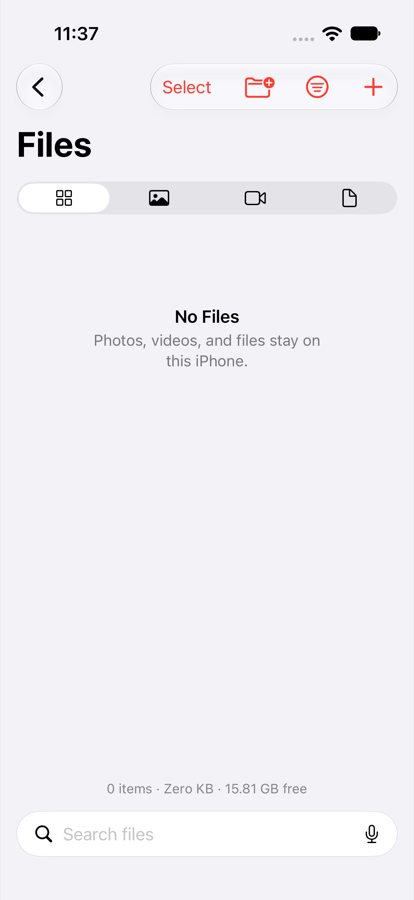
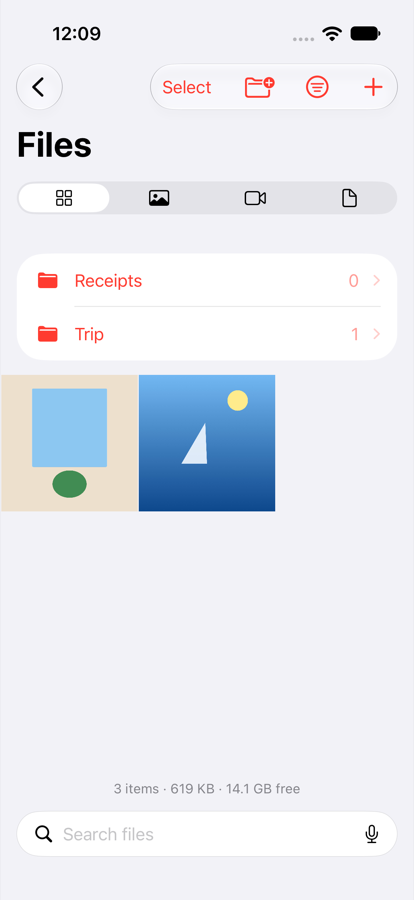
Show sample folders and photos, and explain Move, Copy, and the photo menu.

diff --git a/NoteLy/ViewModels/VaultFilesViewModel.swift b/NoteLy/ViewModels/VaultFilesViewModel.swift
@@ -960,3 +960,109 @@ struct VaultTempFile: Transferable {
         return destination
     }
 }
+
+#if DEBUG
+extension VaultFilesViewModel {
+    /// Sample folders and photos for the screenshot guide. Debug launches only.
+    func seedGuideSamples() {
+        guard let master = session.key else { return }
+        let trip = VaultFolder(name: "Trip")
+        let receipts = VaultFolder(name: "Receipts")
+        folders = [trip, receipts]
+        library = .empty
+        library.folders = folders
+        items = []
+        let specs: [(GuidePicture, String, UUID?)] = [
+            (.harbor, "Harbor.jpg", nil),
+            (.window, "Window.jpg", nil),
+            (.sunset, "Sunset.jpg", trip.id)
+        ]
+        for spec in specs {
+            guard let url = spec.0.write(named: spec.1) else { continue }
+            defer { try? FileManager.default.removeItem(at: url) }
+            guard var item = try? store.importFile(
+                at: url,
+                name: spec.1,
+                folderID: spec.2,
+                companionID: nil,
+                using: master,
+                shouldContinue: { true }
+            ) else { continue }
+            let meta = ThumbnailMaker.dimensions(url: url, type: item.type)
+            item.pixelWidth = meta.width == 0 ? nil : meta.width
+            item.pixelHeight = meta.height == 0 ? nil : meta.height
+            if let jpeg = UIImage(contentsOfFile: url.path)?.jpegData(compressionQuality: 0.8) {
+                try? store.saveThumbnail(jpeg, id: item.id, using: master)
+                item.hasThumbnail = true
+            }
+            items.append(item)
+        }
+        library.items = items
+        persist()
+        refreshSummary()
+    }
+}
+
+private enum GuidePicture {
+    case harbor
+    case sunset
+    case window
+
+    func write(named name: String) -> URL? {
+        let renderer = UIGraphicsImageRenderer(size: CGSize(width: 800, height: 800))
+        let image = renderer.image { context in
+            let bounds = CGRect(x: 0, y: 0, width: 800, height: 800)
+            switch self {
+            case .harbor:
+                drawGradient(in: bounds, colors: [
+                    UIColor(red: 0.45, green: 0.72, blue: 0.95, alpha: 1),
+                    UIColor(red: 0.05, green: 0.28, blue: 0.55, alpha: 1)
+                ], context: context.cgContext)
+                UIColor(red: 1, green: 0.92, blue: 0.55, alpha: 1).setFill()
+                UIBezierPath(ovalIn: CGRect(x: 520, y: 90, width: 120, height: 120)).fill()
+                UIColor(red: 0.95, green: 0.97, blue: 1, alpha: 0.9).setFill()
+                let sail = UIBezierPath()
+                sail.move(to: CGPoint(x: 250, y: 520))
+                sail.addLine(to: CGPoint(x: 390, y: 280))
+                sail.addLine(to: CGPoint(x: 400, y: 520))
+                sail.close()
+                sail.fill()
+            case .sunset:
+                drawGradient(in: bounds, colors: [
+                    UIColor(red: 0.98, green: 0.55, blue: 0.25, alpha: 1),
+                    UIColor(red: 0.45, green: 0.12, blue: 0.38, alpha: 1)
+                ], context: context.cgContext)
+                UIColor(red: 1, green: 0.78, blue: 0.28, alpha: 1).setFill()
+                UIBezierPath(ovalIn: CGRect(x: 280, y: 430, width: 240, height: 240)).fill()
+            case .window:
+                UIColor(red: 0.93, green: 0.88, blue: 0.8, alpha: 1).setFill()
+                UIBezierPath(rect: bounds).fill()
+                UIColor(red: 0.55, green: 0.78, blue: 0.95, alpha: 1).setFill()
+                UIBezierPath(roundedRect: CGRect(x: 180, y: 80, width: 440, height: 460), cornerRadius: 8).fill()
+                UIColor(red: 0.25, green: 0.55, blue: 0.32, alpha: 1).setFill()
+                UIBezierPath(ovalIn: CGRect(x: 300, y: 560, width: 200, height: 160)).fill()
+            }
+        }
+        guard let data = image.jpegData(compressionQuality: 0.9) else { return nil }
+        let url = FileManager.default.temporaryDirectory.appendingPathComponent(name)
+        do {
+            try data.write(to: url, options: .atomic)
+            return url
+        } catch {
+            return nil
+        }
+    }
+
+    private func drawGradient(in bounds: CGRect, colors: [UIColor], context: CGContext) {
+        let space = CGColorSpaceCreateDeviceRGB()
+        let cgColors = colors.map(\.cgColor) as CFArray
+        guard let gradient = CGGradient(colorsSpace: space, colors: cgColors, locations: [0, 1]) else { return }
+        context.drawLinearGradient(
+            gradient,
+            start: CGPoint(x: bounds.midX, y: bounds.minY),
+            end: CGPoint(x: bounds.midX, y: bounds.maxY),
+            options: []
+        )
+    }
+}
+#endif

diff --git a/NoteLyUITests/GuideScreenshotUITests.swift b/NoteLyUITests/GuideScreenshotUITests.swift
@@ -65,6 +65,48 @@ final class GuideScreenshotUITests: XCTestCase {
         }
     }
 
+    func testCaptureFilesGuide() {
+        let app = XCUIApplication()
+        app.launchArguments = [
+            "-ui-testing",
+            "-ui-testing-skip-onboarding",
+            "-ui-testing-open-vault"
+        ]
+        app.launchEnvironment = ["NOTELY_UITEST_PHRASE": "harbor-lantern"]
+        app.launch()
+
+        XCTAssertTrue(app.staticTexts["Hidden Folders"].waitForExistence(timeout: 12))
+        XCTAssertTrue(app.staticTexts["3"].waitForExistence(timeout: 8))
+        snap("09-vault")
+
+        app.staticTexts["Files"].firstMatch.tap()
+        XCTAssertTrue(app.staticTexts["Trip"].waitForExistence(timeout: 8))
+        XCTAssertTrue(app.buttons["Harbor.jpg"].waitForExistence(timeout: 8))
+        sleep(1)
+        snap("12-files")
+
+        app.buttons["Trip, 1"].tap()
+        XCTAssertTrue(app.buttons["Sunset.jpg"].waitForExistence(timeout: 6))
+        sleep(1)
+        snap("12-trip")
+        app.buttons["Files"].firstMatch.tap()
+        XCTAssertTrue(app.buttons["Harbor.jpg"].waitForExistence(timeout: 6))
+
+        app.buttons["Add"].tap()
+        app.buttons["Photos or Videos"].tap()
+        XCTAssertTrue(app.staticTexts["Move removes the original. Copy leaves it where it is."].waitForExistence(timeout: 6))
+        sleep(1)
+        snap("18-move-copy")
+        app.coordinate(withNormalizedOffset: CGVector(dx: 0.5, dy: 0.72)).tap()
+        sleep(1)
+
+        let photo = app.buttons["Harbor.jpg"]
+        XCTAssertTrue(photo.waitForExistence(timeout: 4))
+        photo.coordinate(withNormalizedOffset: CGVector(dx: 0.5, dy: 0.5)).press(forDuration: 1.5)
+        sleep(1)
+        snap("19-photo-menu")
+    }
+
     private func snap(_ name: String) {
         let shot = XCTAttachment(screenshot: XCUIScreen.main.screenshot())
         shot.name = name

diff --git a/NoteLy/Views/Vault/VaultFilesView.swift b/NoteLy/Views/Vault/VaultFilesView.swift
@@ -42,6 +42,7 @@ struct VaultFilesView: View {
                 if model.filter == .all && !model.childFolders.isEmpty {
                     folderList
                         .frame(height: folderListHeight)
+                        .clipped()
                 }
                 ScrollView {
                     LazyVGrid(columns: columns, spacing: 1) {
@@ -589,7 +590,7 @@ struct VaultFilesView: View {
     }
 
     private var folderListHeight: CGFloat {
-        CGFloat(min(model.childFolders.count, 6)) * 54 + 16
+        CGFloat(min(model.childFolders.count, 6)) * 56 + 40
     }
 
     @ViewBuilder

diff --git a/NoteLy/App/AppState.swift b/NoteLy/App/AppState.swift
@@ -906,6 +906,10 @@ final class AppState: ObservableObject {
         } catch {
             VaultLog.security.error("UI test vault setup failed")
         }
+        if UITestHooks.openVault, session.key != nil {
+            vaultFiles.deleteStoredFiles()
+            vaultFiles.seedGuideSamples()
+        }
     }
 
     private static var didSeedNotes = false

diff --git a/README.md b/README.md
@@ -42,7 +42,23 @@ Type the phrase into Search and submit it, then confirm with Face ID or the 6-di
 
 | A private note | Files |
 | --- | --- |
-| ![Private note](screenshots/11-private-note.png) | ![Files](screenshots/12-files.png) |
+| ![Private note](screenshots/11-private-note.png) | ![Files with folders and photos](screenshots/12-files.png) |
+
+All shows folders and photos together. Photos, Videos, and Files show matching items from every folder and hide the folder list. Trip holds one photo. Receipts is empty.
+
+| Inside Trip | Add: Move or Copy |
+| --- | --- |
+| ![Trip folder](screenshots/18-trip.png) | ![Move or Copy](screenshots/19-move-copy.png) |
+
+Tap + and choose Photos or Videos, Files, or Camera. **Move** removes the original after the file is saved here. **Copy** leaves the original where it is.
+
+Press and hold a photo to lift it and open its menu.
+
+| Press and hold a photo |
+| --- |
+| ![Photo menu](screenshots/20-photo-menu.png) |
+
+**Favorite** stars the photo. **Rename** changes its name. **Move** puts it in Files or in a folder such as Trip or Receipts. That is separate from the Move button used when adding a file. **Export** shares a copy, and that copy leaves the vault. **Export without location** shares a photo copy with the location removed. The saved photo keeps its location. **Delete** moves it to Recently Deleted.
 
 The gear inside Hidden Folders opens Private Settings. The page continues below the first screen.
 
